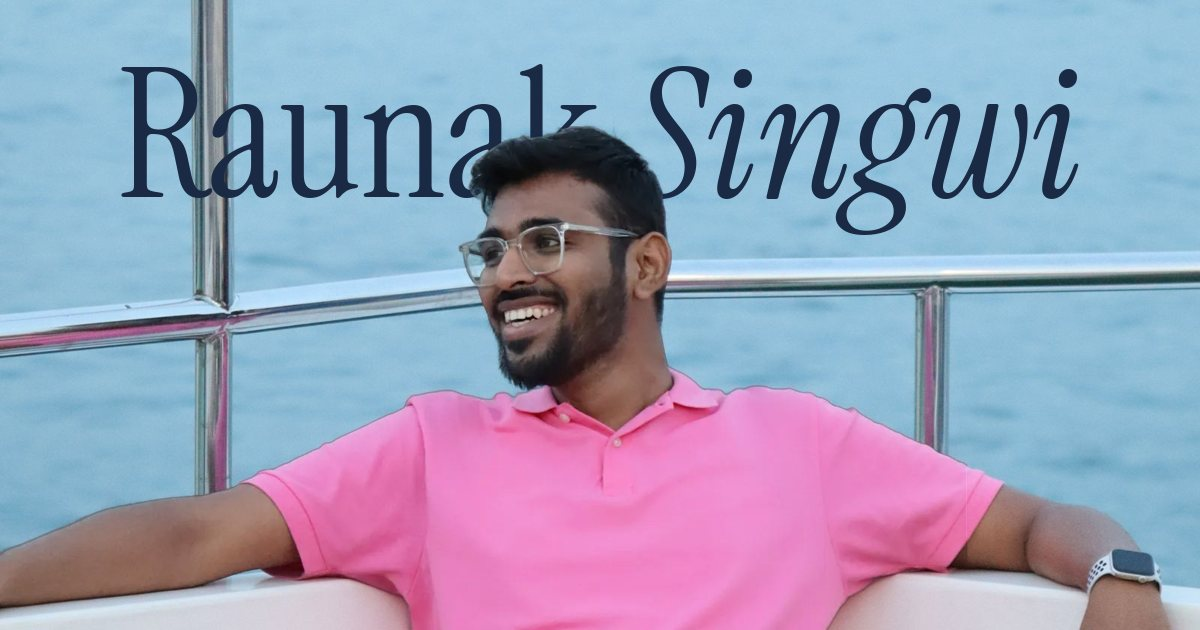
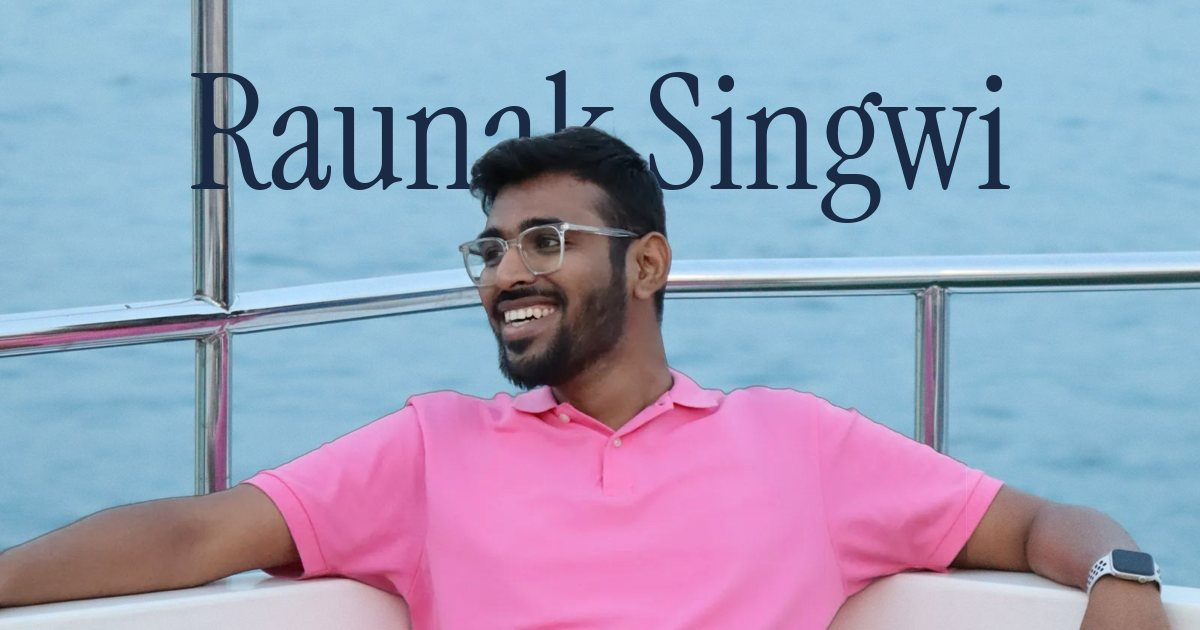
Redesign v3: upright serif name and contact heading, blue palette, simpler copy
- Hero name and 'Say hello.' use the same upright Instrument Serif as the role/About lines; italic font removed
- Copy: 'Engineer and inventor.'; About opener no longer mentions debating
- Speaking list fades out with no toggle (all 11 items stay in the DOM)
- Pink limited to two tiny dots; accents now deep sea blue #769cb1 and sky #98c6df
- OG image regenerated

Changed region(s): [[0.5242, 0.0905, 0.8942, 0.3921], [0.0925, 0.0905, 0.5242, 0.3317]]

diff --git a/assets/style.css b/assets/style.css
@@ -1,13 +1,12 @@
 /* Palette sampled from pics/profile.jpeg (see README in commit message)
-   sky #98c6df · sea #86b3cb · shirt pink #f387c8 · pink shade #cf7aa8
+   sky #98c6df · sea #86b3cb · deep sea #769cb1 · shirt pink #f387c8 (tiny hint only)
    jeans navy #1a2a45 · denim #203353 · jeans shadow #0c121b · highlight #d7e8f2 */
 @font-face{font-family:"Instrument Serif";src:url(fonts/instrument-serif.woff2) format("woff2");font-weight:400;font-style:normal;font-display:swap}
-@font-face{font-family:"Instrument Serif";src:url(fonts/instrument-serif-italic.woff2) format("woff2");font-weight:400;font-style:italic;font-display:swap}
 @font-face{font-family:"Inter";src:url(fonts/inter.woff2) format("woff2");font-weight:300 700;font-display:swap}
 
 :root{
   --sky:#98c6df;--sea:#86b3cb;--mist:#eaf3f8;--cream:#fbf9f6;
-  --pink:#f387c8;--pink-deep:#cf7aa8;
+  --sea-deep:#769cb1;--pink:#f387c8;
   --navy:#1a2a45;--denim:#203353;--ink:#0c121b;
   --muted:#5d6a7e;--line:rgba(26,42,69,.12);
   --serif:"Instrument Serif",ui-serif,Georgia,"Times New Roman",serif;
@@ -20,14 +19,13 @@ html{-webkit-text-size-adjust:100%;scroll-behavior:smooth}
 body{margin:0;background:var(--cream);color:var(--navy);font-family:var(--sans);font-size:17px;line-height:1.6;font-weight:400;-webkit-font-smoothing:antialiased;text-rendering:optimizeLegibility}
 a{color:inherit}
 img{display:block;max-width:100%}
-em{font-family:var(--serif);font-style:italic;font-weight:400}
-::selection{background:var(--pink);color:var(--ink)}
+::selection{background:var(--sky);color:var(--ink)}
 :focus-visible{outline:2px solid var(--denim);outline-offset:4px;border-radius:4px}
 .sr-only{position:absolute;width:1px;height:1px;overflow:hidden;clip:rect(0 0 0 0);white-space:nowrap}
 .skip-link{position:absolute;left:12px;top:-60px;z-index:20;background:var(--navy);color:var(--cream);padding:10px 14px;border-radius:8px;text-decoration:none}
 .skip-link:focus{top:12px}
 .label{font-size:12px;font-weight:600;letter-spacing:.16em;text-transform:uppercase;color:var(--muted);margin:0 0 20px;display:flex;align-items:center;gap:12px}
-.label::before{content:"";width:18px;height:1px;background:var(--pink-deep)}
+.label::before{content:"";width:18px;height:1px;background:var(--sea-deep)}
 
 /* ---------- hero ---------- */
 .hero{padding:0 var(--pad) 0;background:var(--cream)}
@@ -35,21 +33,21 @@ em{font-family:var(--serif);font-style:italic;font-weight:400}
 .wordmark{font-family:var(--serif);font-size:24px;text-decoration:none;letter-spacing:-.01em}
 .links{display:flex;gap:30px}
 .links a{font-size:14px;text-decoration:none;color:var(--muted);position:relative;transition:color .3s}
-.links a::after{content:"";position:absolute;left:0;right:0;bottom:-4px;height:1px;background:var(--pink-deep);transform:scaleX(0);transform-origin:right;transition:transform .5s var(--ease)}
+.links a::after{content:"";position:absolute;left:0;right:0;bottom:-4px;height:1px;background:var(--sea-deep);transform:scaleX(0);transform-origin:right;transition:transform .5s var(--ease)}
 .links a:hover{color:var(--navy)}
 .links a:hover::after{transform:scaleX(1);transform-origin:left}
 
 /* stage: photo, name, then cut-out of Raunak on top so the name sits behind him */
-.stage{--ar:2;--py:20%;--top:6%;--size:15.6cqw;
+.stage{--ar:2;--py:20%;--top:7.5%;--size:13.4cqw;
   position:relative;aspect-ratio:var(--ar);border-radius:22px;overflow:hidden;background:var(--sky);container-type:inline-size;isolation:isolate}
 .depth{position:absolute;inset:0;animation:settle 2.2s var(--ease) both}
 .layer,.layer img{position:absolute;inset:0;width:100%;height:100%}
 .layer img{object-fit:cover;object-position:47% var(--py);transform:translate3d(0,var(--photo-y,0),0) scale(1.04);will-change:transform}
 .cut{z-index:2;pointer-events:none}
-.name{position:absolute;z-index:1;left:0;right:0;top:var(--top);margin:0;text-align:center;font-family:var(--serif);font-weight:400;font-size:var(--size);line-height:.9;letter-spacing:-.035em;color:var(--navy);white-space:nowrap;
+.name{position:absolute;z-index:1;left:0;right:0;top:var(--top);margin:0;text-align:center;font-family:var(--serif);font-weight:400;font-size:var(--size);line-height:.9;letter-spacing:-.012em;color:var(--navy);white-space:nowrap;
   transform:translate3d(var(--name-x,0),var(--name-y,0),0);will-change:transform}
 .name span{display:inline-block;animation:emerge 1.8s var(--ease) both}
-.name .n2{font-style:italic;animation-delay:.12s}
+.name .n2{animation-delay:.12s}
 @keyframes settle{from{transform:scale(1.06);filter:saturate(.85)}to{transform:none;filter:none}}
 @keyframes emerge{from{transform:translateY(55%);opacity:0}40%{opacity:1}to{transform:none;opacity:1}}
 
@@ -65,7 +63,7 @@ em{font-family:var(--serif);font-style:italic;font-weight:400}
 .page{display:grid;grid-template-columns:minmax(0,1fr) 360px;gap:clamp(48px,7vw,120px);max-width:1360px;margin:0 auto;padding:clamp(96px,12vw,180px) var(--pad) clamp(96px,10vw,160px);align-items:start}
 .content>section+section{margin-top:clamp(88px,10vw,140px)}
 .statement{font-family:var(--serif);font-size:clamp(32px,3.6vw,54px);line-height:1.12;letter-spacing:-.015em;margin:0;max-width:23ch;text-wrap:balance}
-.hl{background:linear-gradient(transparent 70%,rgba(243,135,200,.45) 70%);padding:0 .05em}
+.hl{background:linear-gradient(transparent 70%,rgba(152,198,223,.55) 70%);padding:0 .05em}
 
 .now{display:grid;grid-template-columns:140px minmax(0,1fr);gap:24px;border-top:1px solid var(--line);padding-top:28px}
 .now .label{margin-top:10px}
@@ -75,7 +73,7 @@ em{font-family:var(--serif);font-style:italic;font-weight:400}
 .arrow-link span{transition:transform .4s var(--ease)}
 .arrow-link:hover{background:var(--navy);color:var(--cream)}
 .arrow-link:hover span{transform:translateX(4px)}
-.arrow-link.small{border:0;padding:0;border-bottom:1px solid var(--pink-deep);border-radius:0}
+.arrow-link.small{border:0;padding:0;border-bottom:1px solid var(--sea-deep);border-radius:0}
 .arrow-link.small:hover{background:none;color:var(--navy)}
 
 .before .career{list-style:none;margin:0;padding:0;border-top:1px solid var(--line)}
@@ -94,28 +92,22 @@ em{font-family:var(--serif);font-style:italic;font-weight:400}
 /* speaking rail */
 .rail{position:relative;background:var(--mist);border-radius:20px;padding:30px 28px 18px}
 .rail h2{font-family:var(--serif);font-weight:400;font-size:38px;line-height:1;margin:0 0 18px;letter-spacing:-.015em}
-.rail h2 em{color:var(--pink-deep)}
 .awards{list-style:none;margin:0;padding:0}
 .awards li{display:grid;grid-template-columns:44px minmax(0,1fr);gap:12px;padding:12px 0;border-top:1px solid rgba(26,42,69,.1);font-size:14.5px;line-height:1.35}
-.awards b{font-family:var(--serif);font-weight:400;font-style:italic;font-size:20px;line-height:1.05;color:var(--denim)}
+.awards b{font-family:var(--serif);font-weight:400;font-size:20px;line-height:1.05;color:var(--denim)}
 .awards li:has(b:is(:only-child)) b{color:var(--denim)}
 .awards small{display:block;font-size:12.5px;color:var(--muted);margin-top:3px}
 @media (min-width:1101px) and (min-height:1000px){.rail{position:sticky;top:32px}}
 
-.awards-wrap{position:relative}
-.awards-wrap.faded{max-height:740px;overflow:hidden;-webkit-mask-image:linear-gradient(to bottom,#000 58%,transparent 100%);mask-image:linear-gradient(to bottom,#000 58%,transparent 100%)}
-.show-all{display:none;margin:4px 0 8px;background:none;border:0;padding:6px 0;font:500 13px/1 var(--sans);letter-spacing:.04em;color:var(--denim);border-bottom:1px solid var(--pink-deep);cursor:pointer}
-.show-all.on{display:inline-block}
-.show-all:hover{color:var(--ink)}
+.awards-wrap{position:relative;max-height:740px;overflow:hidden;-webkit-mask-image:linear-gradient(to bottom,#000 58%,transparent 100%);mask-image:linear-gradient(to bottom,#000 58%,transparent 100%)}
 
 /* contact */
 .contact{background:var(--navy);color:var(--cream);padding:clamp(96px,12vw,170px) var(--pad) 0}
 .contact-inner{max-width:1360px;margin:0 auto}
 .contact .label{color:var(--sky)}
-.contact h2{font-family:var(--serif);font-weight:400;font-size:clamp(72px,12vw,190px);line-height:.88;letter-spacing:-.04em;margin:0}
-.contact h2 em{color:var(--pink)}
+.contact h2{font-family:var(--serif);font-weight:400;font-size:clamp(64px,9vw,140px);line-height:.95;letter-spacing:-.012em;margin:0}
 .email{display:inline-block;margin-top:44px;font-family:var(--serif);font-size:clamp(26px,3vw,44px);text-decoration:none;border-bottom:1px solid rgba(251,249,246,.35);transition:border-color .4s,color .4s;word-break:break-word}
-.email:hover{border-color:var(--pink);color:var(--pink)}
+.email:hover{border-color:var(--sky);color:var(--sky)}
 .socials{list-style:none;padding:0;margin:56px 0 0;display:flex;flex-wrap:wrap;gap:10px}
 .socials a{display:inline-block;font-size:15px;text-decoration:none;padding:10px 18px;border:1px solid rgba(152,198,223,.35);border-radius:999px;transition:background .4s var(--ease),color .4s var(--ease),border-color .4s}
 .socials a:hover{background:var(--sky);color:var(--ink);border-color:var(--sky)}
@@ -133,7 +125,7 @@ em{font-family:var(--serif);font-style:italic;font-weight:400}
 }
 @media (max-width:820px){
   .links{display:none}
-  .stage{--ar:.78;--py:0%;--top:4%;--size:24cqw;border-radius:18px}
+  .stage{--ar:.78;--py:0%;--top:4.5%;--size:22cqw;border-radius:18px}
   .layer{top:12.5%;height:100%}
   .layer img{object-position:44% 0}
   .layer:not(.cut) img{-webkit-mask-image:linear-gradient(to bottom,transparent 0,#000 10%);mask-image:linear-gradient(to bottom,transparent 0,#000 10%)}
@@ -153,4 +145,3 @@ em{font-family:var(--serif);font-style:italic;font-weight:400}
   html{scroll-behavior:auto}
   .reveal{opacity:1;transform:none}
 }
-@media (min-width:1101px) and (min-height:1000px){.rail:has(.awards-wrap:not(.faded)){position:relative;top:0}}

diff --git a/index.html b/index.html
@@ -4,7 +4,7 @@
   <meta charset="utf-8">
   <meta name="viewport" content="width=device-width, initial-scale=1">
   <title>Raunak Singwi</title>
-  <meta name="description" content="Raunak Singwi is an engineer turned founder: co-founder and CEO of Ravi Inc., inventor on 12 US patents, two-time VMware Global Hackathon winner, and a lifelong debater.">
+  <meta name="description" content="Raunak Singwi is an engineer turned founder: co-founder and CEO of Ravi Inc., inventor on 12 US patents and two-time VMware Global Hackathon winner.">
   <meta name="author" content="Raunak Singwi">
   <meta name="theme-color" content="#98c6df">
   <link rel="canonical" href="https://raunaksingwi.com/">
@@ -60,7 +60,7 @@
     </div>
 
     <div class="hero-foot">
-      <p class="role">Co-founder &amp; CEO of Ravi&nbsp;Inc.<br><span>Engineer, inventor, speaker.</span></p>
+      <p class="role">Co-founder &amp; CEO of Ravi&nbsp;Inc.<br><span>Engineer and inventor.</span></p>
       <a class="scroll" href="#about"><span>Scroll</span><i aria-hidden="true"></i></a>
     </div>
   </header>
@@ -69,7 +69,7 @@
     <div class="content">
       <section id="about" class="about" aria-label="About">
         <p class="label">About</p>
-        <p class="statement">An engineer who became a founder, and a debater who never quite left the stage. I co-founded Ravi&nbsp;Inc. with my brother, Rushabh, and I’m a Founder Fellow at <span class="hl">South&nbsp;Park&nbsp;Commons</span>.</p>
+        <p class="statement">An engineer who became a founder. I co-founded Ravi&nbsp;Inc. with my brother, Rushabh, and I’m a Founder Fellow at <span class="hl">South&nbsp;Park&nbsp;Commons</span>.</p>
       </section>
 
       <section id="now" class="now" aria-labelledby="now-title">
@@ -111,8 +111,8 @@
 
     <aside class="rail" id="speaking" aria-labelledby="speaking-title">
       <p class="label">On stage</p>
-      <h2 id="speaking-title">Public speaking <em>awards</em></h2>
-      <div class="awards-wrap" id="awards-wrap">
+      <h2 id="speaking-title">Public speaking awards</h2>
+      <div class="awards-wrap">
       <ol class="awards" id="awards">
         <li><b>2nd</b><span>National Level Debate Competition<small>Jamia Millia Islamia University, New Delhi · February 2016</small></span></li>
         <li><b>3rd</b><span>Impromptu Speech, Toastmasters Zonal Level Contest<small>IIM Bangalore · February 2019</small></span></li>
@@ -127,14 +127,13 @@
         <li><b>3rd</b><span>Intra-College Debate Competition<small>Power Grid Corporation in association with Ramdeobaba College of Engineering and Management, Nagpur · October 2016</small></span></li>
       </ol>
       </div>
-      <button class="show-all" type="button" aria-controls="awards-wrap" aria-expanded="false">Show all 11</button>
     </aside>
   </main>
 
   <section class="contact" id="contact" aria-labelledby="contact-title">
     <div class="contact-inner">
       <p class="label">Contact</p>
-      <h2 id="contact-title">Say <em>hello.</em></h2>
+      <h2 id="contact-title">Say hello.</h2>
       <a class="email" href="mailto:raunaksingwi7@gmail.com">raunaksingwi7@gmail.com</a>
       <ul class="socials">
         <li><a href="https://www.linkedin.com/in/raunak-singwi/" target="_blank" rel="noopener">LinkedIn</a></li>

diff --git a/assets/main.js b/assets/main.js
@@ -1,18 +1,4 @@
 (function () {
-  // Speaking list: fade the tail; the full list stays in the DOM and is revealed with the toggle.
-  var wrap = document.getElementById('awards-wrap');
-  var btn = document.querySelector('.show-all');
-  if (wrap && btn) {
-    wrap.classList.add('faded');
-    btn.classList.add('on');
-    btn.addEventListener('click', function () {
-      var open = wrap.classList.toggle('faded') === false;
-      btn.setAttribute('aria-expanded', String(open));
-      btn.textContent = open ? 'Show fewer' : 'Show all 11';
-    });
-  }
-})();
-(function () {
   var reduce = window.matchMedia('(prefers-reduced-motion: reduce)').matches;
   if (reduce) return;
   var root = document.documentElement;
